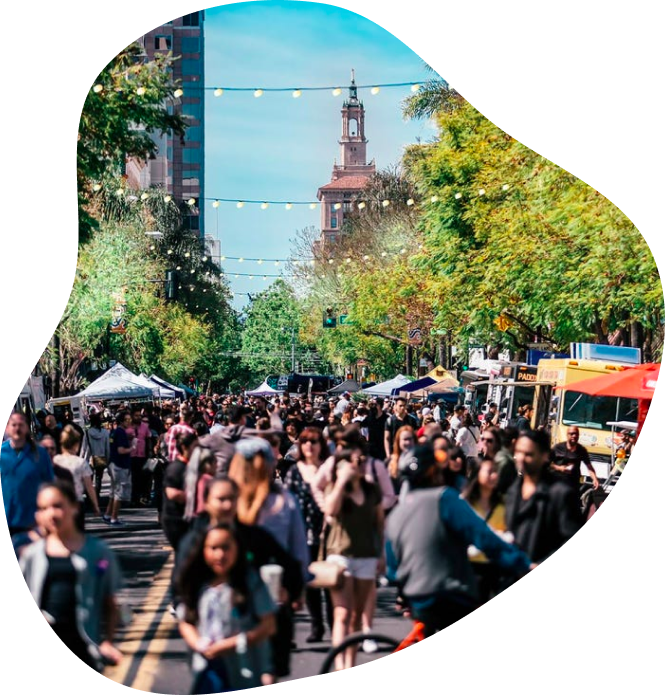
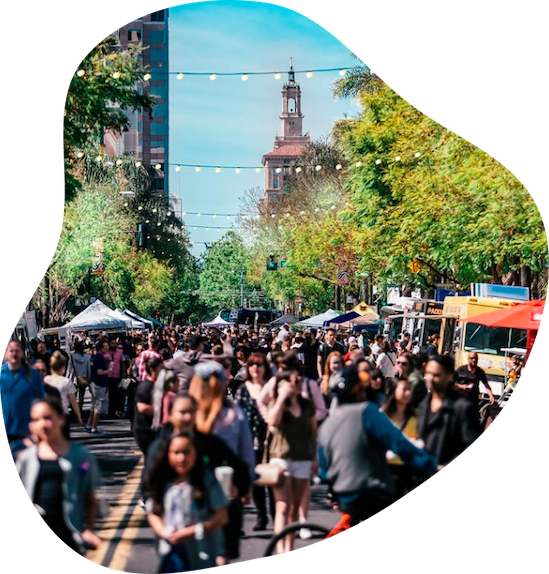
Makes images at bottom of index smaller

diff --git a/src/pages/index.module.scss b/src/pages/index.module.scss
@@ -1,80 +1,88 @@
-.container {
+.heroOuterContainer {
+  padding: 0 2rem;
+}
+
+.heroInnerContainer {
+  display: flex;
+  flex-direction: row;
+  padding: 5rem 0 6.2rem 0;
+  max-width: 1440px;
+  margin: auto;
+}
+
+.heroLeft {
+  display: flex;
+  flex-direction: column;
+  flex: 1;
+  justify-content: center;
+  margin-right: 3rem;
+
+  h1 {
+    font-size: 4.8rem;
+    margin-bottom: 2rem;
+  }
+
+  h2 {
+    font-family: "Lato";
+    font-size: 2.4rem;
+    font-weight: normal;
+    line-height: 3.4rem;
+  }
+}
+
+.heroRight {
+  margin: auto;
+
+  img {
+    max-width: 100%;
+    min-width: 20%;
+    height: auto;
+  }
+}
+
+.heroButtonContainer {
+  display: flex;
+  flex-direction: row;
+  margin-top: 6.2rem;
+}
+
+.primaryCTA {
+  margin-right: 1.6rem;
+}
+
+@media screen and (max-width: 760px) {
   .heroInnerContainer {
-    display: flex;
-    flex-direction: row;
-    padding: 5rem 0 6.2rem 0;
-    max-width: 1440px;
-    margin: auto;
+    flex-direction: column;
+    padding: 4rem 0;
   }
 
   .heroLeft {
-    display: flex;
-    flex-direction: column;
-    flex: 1;
-    justify-content: center;
+    padding-left: 2.5rem;
 
     h1 {
-      font-size: 4.8rem;
-      margin-bottom: 2rem;
+      font-size: 2.8rem;
     }
 
     h2 {
-      font-family: "Lato";
-      font-size: 2.4rem;
-      font-weight: normal;
-      line-height: 3.4rem;
+      font-size: 1.6rem;
+      line-height: 2.1rem;
     }
   }
 
   .heroRight {
-    justify-content: center;
-    align-content: center;
+    padding: 0 0.5rem;
   }
 
   .heroButtonContainer {
-    display: flex;
-    flex-direction: row;
-    margin-top: 6.2rem;
+    flex-direction: column;
+    margin: 3.2rem 0;
+  }
+  .heroButtonContainer:first-child {
+    margin-bottom: 2rem;
   }
 
   .primaryCTA {
-    margin-right: 1.6rem;
-  }
-
-  @media screen and (max-width: 760px) {
-    .heroInnerContainer {
-      flex-direction: column;
-      padding: 4rem 0;
-    }
-
-    .heroLeft {
-      padding-left: 2.5rem;
-
-      h1 {
-        font-size: 2.8rem;
-      }
-
-      h2 {
-        font-size: 1.6rem;
-        line-height: 2.1rem;
-      }
-    }
-
-    .heroRight {
-      padding: 0 0.5rem;
-    }
-
-    .heroButtonContainer {
-      flex-direction: column;
-      margin: 3.2rem 0;
-    }
-    .heroButtonContainer:first-child {
-      margin-bottom: 2rem;
-    }
-
-    .primaryCTA {
-      margin-left: 0rem;
-      margin-bottom: 1.6rem;
-    }
+    margin-left: 0rem;
+    margin-bottom: 1.6rem;
   }
 }

diff --git a/src/components/mainPagePic.module.scss b/src/components/mainPagePic.module.scss
@@ -1,31 +1,53 @@
+.outerContainer {
+  padding: 9rem 5rem;
+}
+
 .innerContainer {
   display: flex;
   align-items: center;
+  justify-content: space-between;
   flex-direction: row;
-  padding: 9rem 0;
   max-width: 1440px;
   margin: auto;
+}
 
-  .content {
-    padding: 10rem;
+.blob {
+  flex: 1;
+  max-width: 549px;
+  min-width: 300px;
+  height: auto;
+}
 
-    h2 {
-      font-size: 4.5rem;
-    }
+.content {
+  display: flex;
+  flex-direction: column;
+  flex: 2;
+  max-width: 65rem;
+  padding: 0 4rem;
 
-    p {
-      max-width: 90%;
-      font-size: 2rem;
-      line-height: 2.6rem;
-      margin: 1.6rem 0 2rem;
-    }
+  h2 {
+    font-size: 4.5rem;
+  }
+
+  p {
+    max-width: 90%;
+    font-size: 2rem;
+    line-height: 2.6rem;
+    margin: 1.6rem 0 2rem;
   }
 }
 
+.reversed {
+  flex-direction: row-reverse;
+}
+
 @media screen and (max-width: 760px) {
+  .outerContainer {
+    padding: 4.5rem 1rem;
+  }
+
   .innerContainer {
     flex-direction: column-reverse;
-    padding: 4.5rem 0;
 
     img {
       max-width: 97%;
@@ -45,8 +67,4 @@
       }
     }
   }
-}
-
-.reversed {
-  flex-direction: row-reverse;
 }

diff --git a/src/pages/index.js b/src/pages/index.js
@@ -170,12 +170,7 @@ export default function MainPage(props) {
               </div>
             </div>
             <div className={styles.heroRight}>
-              <img
-                alt="header"
-                className="responsive"
-                width="724px"
-                src={headerBlob}
-              />
+              <img alt="header" width="724px" src={headerBlob} />
             </div>
           </div>
         </header>

diff --git a/src/components/mainPagePic.js b/src/components/mainPagePic.js
@@ -11,7 +11,7 @@ const MainPagePic = props => {
       <div
         className={`${styles.innerContainer} ${reversed && styles.reversed}`}
       >
-        <img alt="main-page" className="responsive" width="665px" src={image} />
+        <img alt="main-page" className={styles.blob} src={image} />
         <div className={styles.content}>
           <h2>{title}</h2>
           <p>{description}</p>

diff --git a/src/styles/global.scss b/src/styles/global.scss
@@ -62,12 +62,6 @@ li {
   list-style-type: none;
 }
 
-.responsive {
-  max-height: auto;
-  max-width: 100%;
-  min-width: 50%;
-}
-
 @media screen and (max-width: 760px) {
   html {
     scroll-padding-top: 8.52rem;
